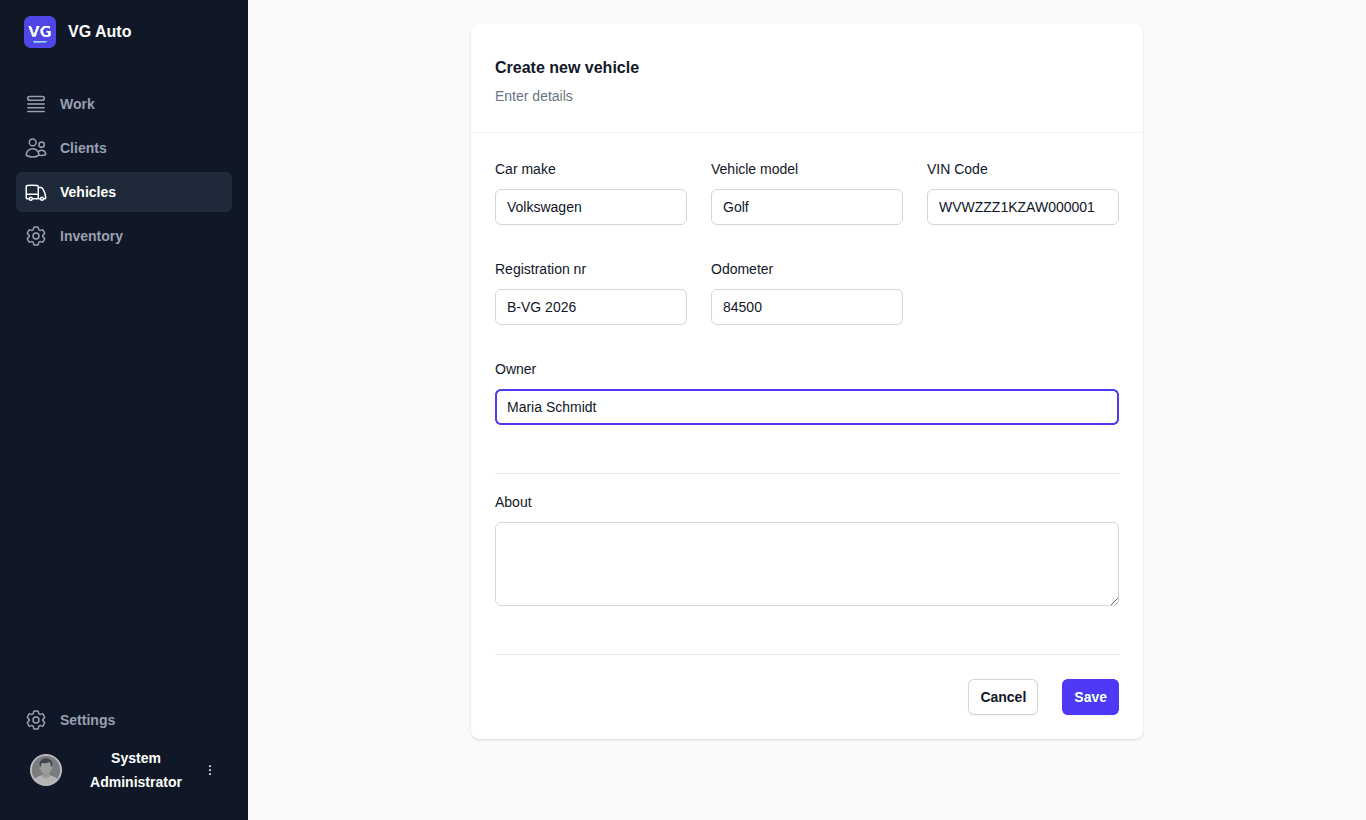
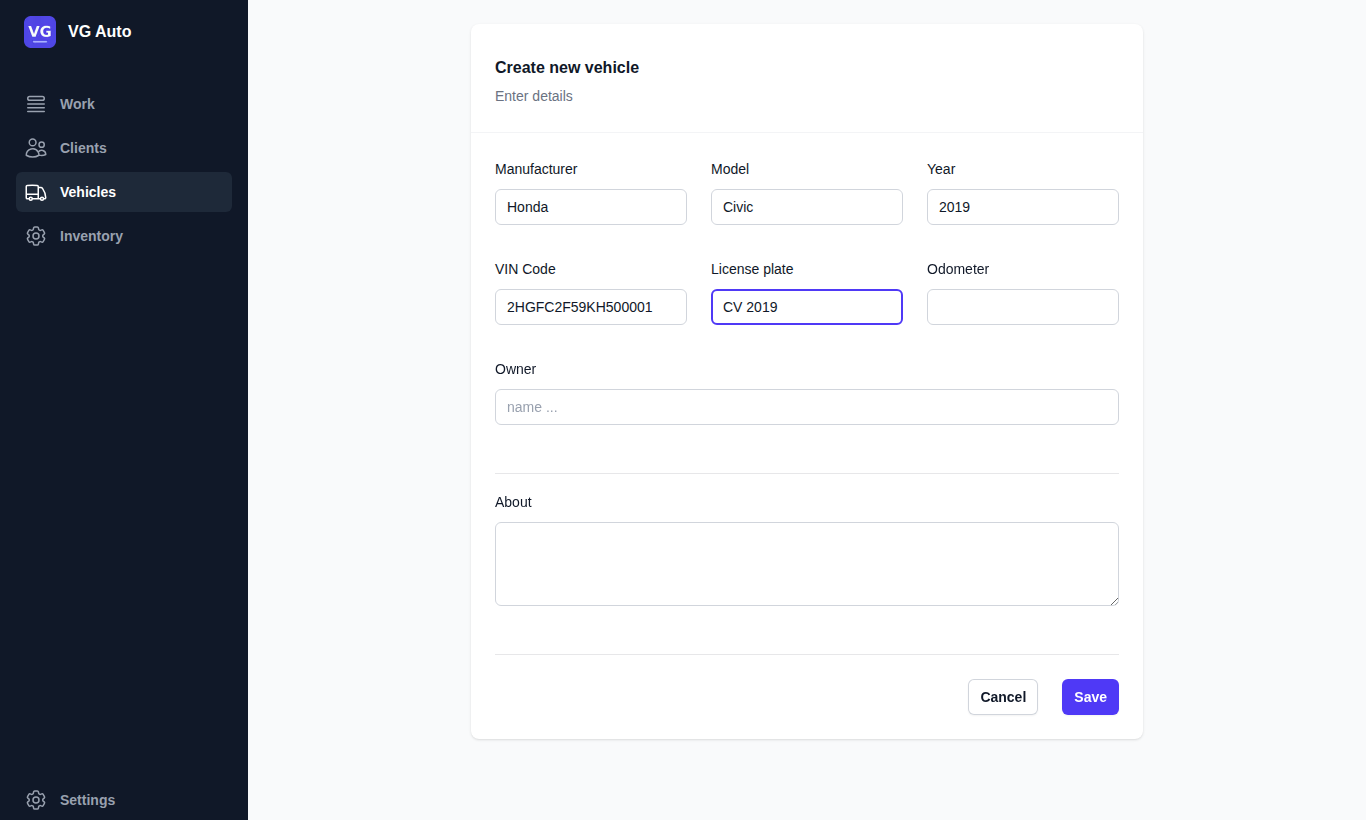
Vehicle manufacturer, year and license plate; clear errors when issuing
Vehicles
- Producer is now Manufacturer and RegNr (of vehicles) License plate,
  in the API, the pages and on estimates/invoices (database columns unchanged)
- Optional model year (1900 to next year), shown as "2019 Honda Civic"
  in the vehicle list and details, on work and on estimates/invoices

Issuing estimates and invoices
- Recipient addresses are checked before the PDF is made; several
  addresses separated by comma or semicolon are sent to all of them
  (they used to end in an internal error)
- An invalid company email is left out of reply-to instead of failing
- Unexpected PDF and Microsoft Graph errors are reported with their
  reason; a PDF that cannot be saved to disk no longer stops the document

Claude-Session: https://claude.ai/code/session_011m3Bs59Mr4XKirpuLi49QF

diff --git a/frontend/src/app/home/vehicles/_components/VehicleInput.tsx b/frontend/src/app/home/vehicles/_components/VehicleInput.tsx
@@ -27,7 +27,7 @@ export default function VehicleInput({
 
     const router = useRouter()
      
-    const [producer,setProducer] = useState<ICarProducer |null>(!vehicle?null:{name:vehicle.producer})
+    const [manufacturer,setManufacturer] = useState<ICarProducer |null>(!vehicle?null:{name:vehicle.manufacturer})
     return (
         <>
             <div className="space-y-12">
@@ -35,16 +35,16 @@ export default function VehicleInput({
                     
                     <div className="grid grid-cols-1 gap-x-6 gap-y-8 sm:grid-cols-6">
                     <div className="sm:col-span-2">
-                        <FormLabel name='producer' label='Car make'></FormLabel>
+                        <FormLabel name='manufacturer' label='Manufacturer'></FormLabel>
                         <TypeAheadCombobox 
-                          name="producer" 
-                          defaultValue={producer} 
+                          name="manufacturer" 
+                          defaultValue={manufacturer} 
                           displayFormatter={(item)=>!item?'':item?.name} 
                           optionFormatter={(item)=>!item?'':item?.name} 
-                          placeholder="Enter car make" 
+                          placeholder="Enter manufacturer" 
                           onItemChange={(item)=>{
                               
-                            setProducer(item);
+                            setManufacturer(item);
                           }} 
                           onSearch={(e,dataTarget)=>{
                              const inputValue = e.currentTarget.value;
@@ -59,9 +59,10 @@ export default function VehicleInput({
                           }}
                           ></TypeAheadCombobox> 
                        </div> 
-                        <div className="sm:col-span-2">  <FormInput name='model' defaultValue={vehicle?.model} label='Vehicle model'></FormInput></div>
+                        <div className="sm:col-span-2">  <FormInput name='model' defaultValue={vehicle?.model} label='Model'></FormInput></div>
+                        <div className="sm:col-span-2">  <FormInput name='year' type='number' defaultValue={vehicle?.year ?? undefined} label='Year' placeholder='e.g. 2019'></FormInput></div>
                         <div className="sm:col-span-2">  <FormInput name='vin' defaultValue={vehicle?.vin} label='VIN Code'></FormInput></div>
-                        <div className="sm:col-span-2">  <FormInput name='regNr' defaultValue={vehicle?.regNr} label='Registration nr'></FormInput></div>
+                        <div className="sm:col-span-2">  <FormInput name='licensePlate' defaultValue={vehicle?.licensePlate} label='License plate'></FormInput></div>
                         <div className="sm:col-span-2">  <FormInput name='odo' defaultValue={vehicle?.odo} label='Odometer'></FormInput> </div>
                         <div className="col-span-full">
                             <FormLabel name='ownerId' label='Owner'></FormLabel>

diff --git a/frontend/src/app/home/vehicles/page.tsx b/frontend/src/app/home/vehicles/page.tsx
@@ -19,17 +19,17 @@ export default async function Page(
       columns={[
 
         {
-          dataField: 'producer',
-          headerText: 'Producer',
+          dataField: 'manufacturer',
+          headerText: 'Manufacturer',
           dataClasses: () => {
             return "pl-4 font-medium gray-900 whitespace-nowrap";
           },
-          dataFormatter: ({ producer }) => {
-            const producerName = producer.trim().replace(" ", "-").toLowerCase();
+          dataFormatter: ({ manufacturer }) => {
+            const producerName = (manufacturer ?? '').trim().replace(" ", "-").toLowerCase();
             return (
               <div className="flex items-center " >
                 <i className={clsx("pr-2 text-2xl", "car-" + producerName)}>  </i>
-                <span className="text-sm">{producer}</span>
+                <span className="text-sm">{manufacturer}</span>
               </div>
             );
           }
@@ -39,12 +39,16 @@ export default async function Page(
           headerText: 'Model',
         },
         {
-          dataField: 'regNr',
-          headerText: 'RegNr',
-          dataFormatter: ({ regNr, id }) => {
+          dataField: 'year',
+          headerText: 'Year',
+        },
+        {
+          dataField: 'licensePlate',
+          headerText: 'License plate',
+          dataFormatter: ({ licensePlate, id }) => {
             return (
               <a href={'/home/vehicles/' + id} >
-                <h5 className="font-semibold"> {regNr}</h5>
+                <h5 className="font-semibold"> {licensePlate}</h5>
               </a>
             );
           }
@@ -73,7 +77,7 @@ export default async function Page(
           }
         }
       ]}>
-        <SimpleSearchBar searchParams={searchParams} placeholder="vin, reg nr., owner or make ..."></SimpleSearchBar> 
+        <SimpleSearchBar searchParams={searchParams} placeholder="VIN, license plate, owner or manufacturer ..."></SimpleSearchBar> 
         </Search></form>
    
   </Main>

diff --git a/frontend/src/app/home/work/_components/WorkInput.tsx b/frontend/src/app/home/work/_components/WorkInput.tsx
@@ -1,6 +1,7 @@
 'use client'
 
 import { useRouter } from 'next/navigation';
+import { vehicleLabel } from '@/_lib/shared/vehicle';
 import FormTextArea from '@/_components/FormTextArea';
 import PrimaryButton from '@/_components/PrimaryButton';
 import SecondaryButton from '@/_components/SecondaryButton';
@@ -134,13 +135,13 @@ export default function WorkInput({
                                                     setSelectedClientVehicleId(e.currentTarget.value);
                                                 }} >
                                                 {clientVehicles?.map((item, index) => {
-                                                    return (<option key={index} value={item.id}>{[item?.producer, item?.model].filter(x => x).join(' ') + (!item?.regNr ? '' : ` (${item.regNr})`)}</option>)
+                                                    return (<option key={index} value={item.id}>{vehicleLabel(item)}</option>)
                                                 })}
                                             </Select> :
                                             <VehiclesCombobox name='vehicleId'
 
                                                 defaultValue={{
-                                                    text: [work?.vehicleProducer, work?.vehicleModel].filter(x => x).join(' ') + (!work?.vehicleRegNr ? '' : `(${work?.vehicleRegNr})`),
+                                                    text: vehicleLabel({ year: work?.vehicleYear, manufacturer: work?.vehicleManufacturer, model: work?.vehicleModel, licensePlate: work?.vehicleLicensePlate }),
                                                     value: work?.vehicleId ?? '',
                                                 }}>
                                             </VehiclesCombobox>}

diff --git a/frontend/src/app/home/work/page.tsx b/frontend/src/app/home/work/page.tsx
@@ -119,10 +119,10 @@ export default async function Page(
     {
       dataField: 'vehicleId',
       headerText: 'Vehicle',
-      dataFormatter: ({ regNr, vehicleId }: { regNr: string, vehicleId: string }) => {
+      dataFormatter: ({ licensePlate, vehicleId }: { licensePlate: string, vehicleId: string }) => {
         return (
           <a href={'/home/vehicles/' + vehicleId} >
-            <h5 className="mb-0 fs--1">{regNr}</h5>
+            <h5 className="mb-0 fs--1">{licensePlate}</h5>
           </a>
         );
       }
@@ -170,7 +170,7 @@ export default async function Page(
                  <div className="  grid grid-cols-1  md:grid-cols-12 md:grid-flow-row md:gap-x-2 3xl:grid-flow-col  3xl:grid-cols-24   p-0 3xl:gap-x-2  gap-y-2  "> 
                       <div className="3xl:col-span-6 md:col-span-7 "   >
                         <SearchStatusFilter issued={options.issued === 'on'} status={options.status}></SearchStatusFilter>
-                        <SearchInput searchParams={searchParams} placeholder="number, client, vehicle vin or reg nr." ></SearchInput> 
+                        <SearchInput searchParams={searchParams} placeholder="number, client, VIN or license plate" ></SearchInput> 
                       </div> 
                       <div className="3xl:col-span-4  md:col-span-5 ">
                          <FormInput name="saleable" label="Product or service" placeholder="code or name ..." defaultValue={options.saleable}  ></FormInput>

diff --git a/frontend/src/app/home/vehicles/[id]/page.tsx b/frontend/src/app/home/vehicles/[id]/page.tsx
@@ -26,9 +26,11 @@ export default async function Page({
                 <DisplayOptionsMenu id={id} pageName='vehicles'></DisplayOptionsMenu>
             </CardHeader>}>
             <dl className="divide-y divide-gray-100"> 
-                <DescriptionItem label='Car make and model' value={[vehicle.producer, vehicle.model].join(' ')}></DescriptionItem>
+                <DescriptionItem label='Manufacturer' value={vehicle.manufacturer}></DescriptionItem>
+                <DescriptionItem label='Model' value={vehicle.model}></DescriptionItem>
+                <DescriptionItem label='Year' value={vehicle.year ?? ''}></DescriptionItem>
                 <DescriptionItem label='VIN' value={vehicle.vin}></DescriptionItem>
-                <DescriptionItem label='Reg nr' value={vehicle.regNr}></DescriptionItem>
+                <DescriptionItem label='License plate' value={vehicle.licensePlate}></DescriptionItem>
                 <DescriptionItem label='Odometer' value={vehicle.odo}></DescriptionItem>
                 <DescriptionItem label='Owner' value={vehicle.ownerName}></DescriptionItem>
                 <DescriptionItem label='About' value={vehicle.description}></DescriptionItem>

diff --git a/frontend/src/app/home/vehicles/createOrUpdate.ts b/frontend/src/app/home/vehicles/createOrUpdate.ts
@@ -13,21 +13,27 @@ export async function createOrUpdate(
     let odo = formData.get('odo');
     if(!odo) odo = '0';
 
-    debugger;
     let ownerId = formData.get('ownerId[value]');
     if(!ownerId) ownerId = null;
 
+    const yearText = (formData.get('year')?.toString() ?? '').trim();
+    const year = yearText ? Number(yearText) : null;
+    if (year !== null && (!Number.isInteger(year) || year < 1900 || year > new Date().getFullYear() + 1)) {
+        await pushToast(`Year must be between 1900 and ${new Date().getFullYear() + 1}.`, true);
+        redirect(id ? `/home/vehicles/edit/${id}` : '/home/vehicles/new');
+    }
+
     const body = {
         model: formData.get('model'),
-        producer: formData.get('producer[name]'),
+        year,
+        manufacturer: formData.get('manufacturer[name]'),
         vin: formData.get('vin'),
-        regNr: formData.get('regNr'),
+        licensePlate: formData.get('licensePlate'),
         odo: odo,
         description: formData.get('about'),
         ownerId:ownerId
     };
  
-    debugger;
     const url = "vehicles";
      
     const isUpdating = !!id;

diff --git a/frontend/src/app/home/work/_components/WorkInformation.tsx b/frontend/src/app/home/work/_components/WorkInformation.tsx
@@ -2,6 +2,7 @@
 
 'use client'
 import {  IWorkData } from '../model';
+import { vehicleTitle } from '@/_lib/shared/vehicle';
 import { DocumentTextIcon,   TruckIcon, UserCircleIcon, WrenchScrewdriverIcon } from '@heroicons/react/20/solid';
 import moment from 'moment';
 import React from 'react';
@@ -34,7 +35,7 @@ export function WorkInformation({
 
     const editPath = '/home/work/edit/' + work.id;
  
-    const vehicleSummary = [work.vehicleProducer, work.vehicleModel, work.vehicleVin, work.vehicleRegNr].filter(x => x).join(', ');
+    const vehicleSummary = [vehicleTitle({ year: work.vehicleYear, manufacturer: work.vehicleManufacturer, model: work.vehicleModel }), work.vehicleVin, work.vehicleLicensePlate].filter(x => x).join(', ');
     const clientSummary = [work.clientName, work.clientPhone, work.clientEmail].filter(x => x).join(', ');
 
     const deleteInvoiceRef = React.useRef<BaseDialogHandle>(null);

diff --git a/frontend/src/app/home/_components/SearchCombobox.tsx b/frontend/src/app/home/_components/SearchCombobox.tsx
@@ -1,6 +1,7 @@
 'use client'
 
 import { dataPage } from "@/_lib/client/query-api";
+import { vehicleLabel } from '@/_lib/shared/vehicle';
 import TypeAheadCombobox, { ISearchComboboxOnItemChange } from "./TypeAheadCombobox"
 import { useState } from "react";
 import { IVehicleData } from "../vehicles/model";
@@ -25,10 +26,10 @@ export function VehiclesCombobox( {
         defaultValue={defaultValue} 
         className={className}  
         displayFormatter={(item:IVehicleData)=>{
-            return [item.producer,item.model].filter(x=>x).join(' ')+ (!item.regNr?'':` (${item.regNr})`)
+            return vehicleLabel(item)
         }}
         resourceName="vehicles"
-        placeholder="vin, reg nr., owner or make ..." ></SearchCombobox>)
+        placeholder="VIN, license plate, owner or manufacturer ..." ></SearchCombobox>)
 }
 
 export function ClientsCombobox( {

diff --git a/frontend/src/_lib/shared/vehicle.ts b/frontend/src/_lib/shared/vehicle.ts
@@ -1,0 +1,12 @@
+/** "2019 Honda Civic" */
+export function vehicleTitle(v: { year?: number | string | null, manufacturer?: string | null, model?: string | null } | null | undefined): string {
+  if (!v) return ''
+  return [v.year, v.manufacturer, v.model].filter(x => x !== null && x !== undefined && String(x).trim() !== '').join(' ')
+}
+
+/** "2019 Honda Civic (ABC 123)" */
+export function vehicleLabel(v: { year?: number | string | null, manufacturer?: string | null, model?: string | null, licensePlate?: string | null } | null | undefined): string {
+  if (!v) return ''
+  const title = vehicleTitle(v)
+  return v.licensePlate ? `${title}${title ? ' ' : ''}(${v.licensePlate})` : title
+}

diff --git a/frontend/src/app/home/work/model.ts b/frontend/src/app/home/work/model.ts
@@ -8,10 +8,11 @@ export interface IWorkData extends IActivity{
     clientEmail:     string;
     clientPhone:     string;
     vehicleId:       string;
-    vehicleProducer: string;
+    vehicleManufacturer: string;
     vehicleModel:    string;
+    vehicleYear:     number | null;
     vehicleVin:      string;
-    vehicleRegNr:    string;
+    vehicleLicensePlate: string;
     notes:           string;
     odo:             number;
     mechanics:       IMechanic[];

diff --git a/frontend/src/app/home/vehicles/model.ts b/frontend/src/app/home/vehicles/model.ts
@@ -1,7 +1,8 @@
 export interface IVehicleData{
-    producer: string
+    manufacturer: string
     model: string
-    regNr: string
+    year: number | null
+    licensePlate: string
     vin: string
     odo: string
     body: string

diff --git a/backend/src/VgAuto.Domain/Vehicle.cs b/backend/src/VgAuto.Domain/Vehicle.cs
@@ -12,9 +12,9 @@ namespace VgAuto.Core.Domain
         IList<VehicleRegistration> registrations = new List<VehicleRegistration>();
         protected Vehicle() { }
         public    Vehicle(
-            string regNr,
+            string licensePlate,
             DateTime introducedAt,
-            string producer = null,
+            string manufacturer = null,
             string model = null, 
             string vin = null,
             int? odo = null,
@@ -26,16 +26,17 @@ namespace VgAuto.Core.Domain
             string series = null,
             string transmission = null,
             string description = null,
-            Guid? id = null)
+            Guid? id = null,
+            int? year = null)
         {  
             IntroducedAt = introducedAt; 
-            SetValues(regNr, producer, model, vin, odo, body, drivingSide, engine, productionDate, region, series, transmission,description);
+            SetValues(licensePlate, manufacturer, model, vin, odo, body, drivingSide, engine, productionDate, region, series, transmission,description, year);
             this.Id = id.GetValueOrDefault();
         }
 
 
-        private void SetValues(string regNr,
-                               string producer,
+        private void SetValues(string licensePlate,
+                               string manufacturer,
                                string model,
                                string vin,
                                int? odo,
@@ -46,16 +47,22 @@ namespace VgAuto.Core.Domain
                                string region,
                                string series,
                                string transmission,
-                               string description)
+                               string description,
+                               int? year)
         {
-            if (string.IsNullOrWhiteSpace(regNr)&& string.IsNullOrWhiteSpace(vin))
+            if (string.IsNullOrWhiteSpace(licensePlate)&& string.IsNullOrWhiteSpace(vin))
             {
-                throw new UserException("Vehicle registration number or VIN code is required.");
+                throw new UserException("License plate or VIN is required.");
+            }
+            if (year != null && (year < 1900 || year > DateTime.UtcNow.Year + 1))
+            {
+                throw new UserException($"Year must be between 1900 and {DateTime.UtcNow.Year + 1}.");
             }
             Description = description;
-            Producer = producer;
+            Manufacturer = manufacturer;
             Model = model;
-            RegNr = regNr;
+            Year = year;
+            LicensePlate = licensePlate;
             Vin = vin;
             Odo = odo;
             Body = body;
@@ -67,9 +74,14 @@ namespace VgAuto.Core.Domain
             Transmission = transmission;
         }
          
-        public  virtual string Producer { get; protected set; }
+        public  virtual string Manufacturer { get; protected set; }
         public  virtual string Model { get; protected set; }
-        public  virtual string RegNr { get; protected set; }
+        /// <summary>Model year, e.g. 2019 (optional).</summary>
+        public  virtual int? Year { get; protected set; }
+        public  virtual string LicensePlate { get; protected set; }
+
+        /// <summary>"2019 Honda Civic"</summary>
+        public virtual string Title => string.Join(" ", new[] { Year?.ToString(), Manufacturer, Model }.Where(x => !string.IsNullOrWhiteSpace(x)));
         public  virtual string Vin { get; protected set; }
         public  virtual int? Odo { get; protected set; }
         public  virtual string Body { get; protected set; }
@@ -88,8 +100,8 @@ namespace VgAuto.Core.Domain
 
         public  virtual IReadOnlyCollection<VehicleRegistration> Registrations { get => registrations.ToList().AsReadOnly(); }
 
-        public  virtual void Edit(string regNr,
-            string producer = null,
+        public  virtual void Edit(string licensePlate,
+            string manufacturer = null,
             string model = null,
             string vin = null,
             int odo = 0,
@@ -100,9 +112,10 @@ namespace VgAuto.Core.Domain
             string region = null,
             string series = null,
             string transmission = null,
-            string description = null)
+            string description = null,
+            int? year = null)
         {
-            SetValues(regNr, producer, model, vin, odo, body, drivingSide, engine, productionDate, region, series, transmission,description);
+            SetValues(licensePlate, manufacturer, model, vin, odo, body, drivingSide, engine, productionDate, region, series, transmission,description, year);
         }
 
 
